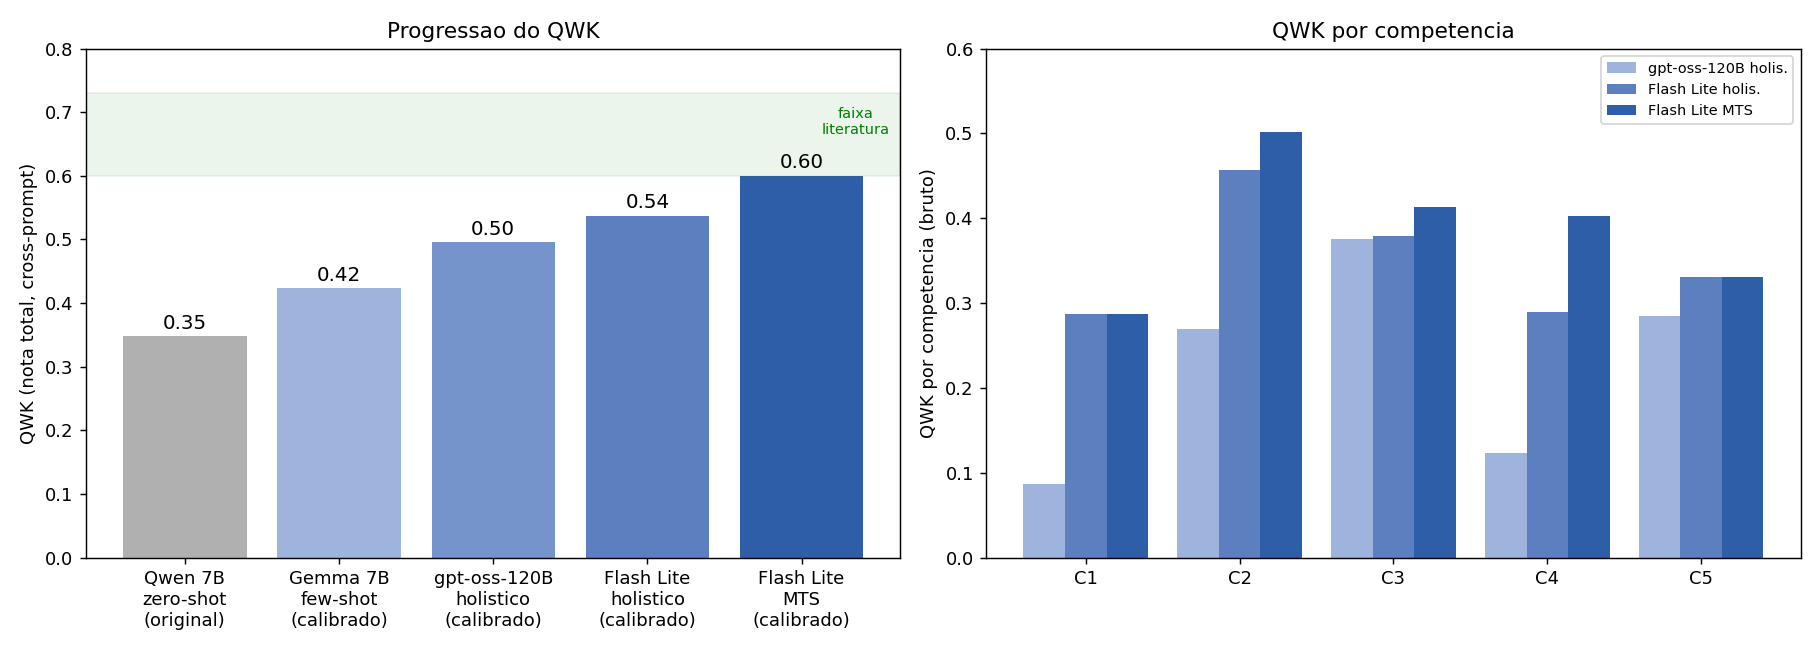
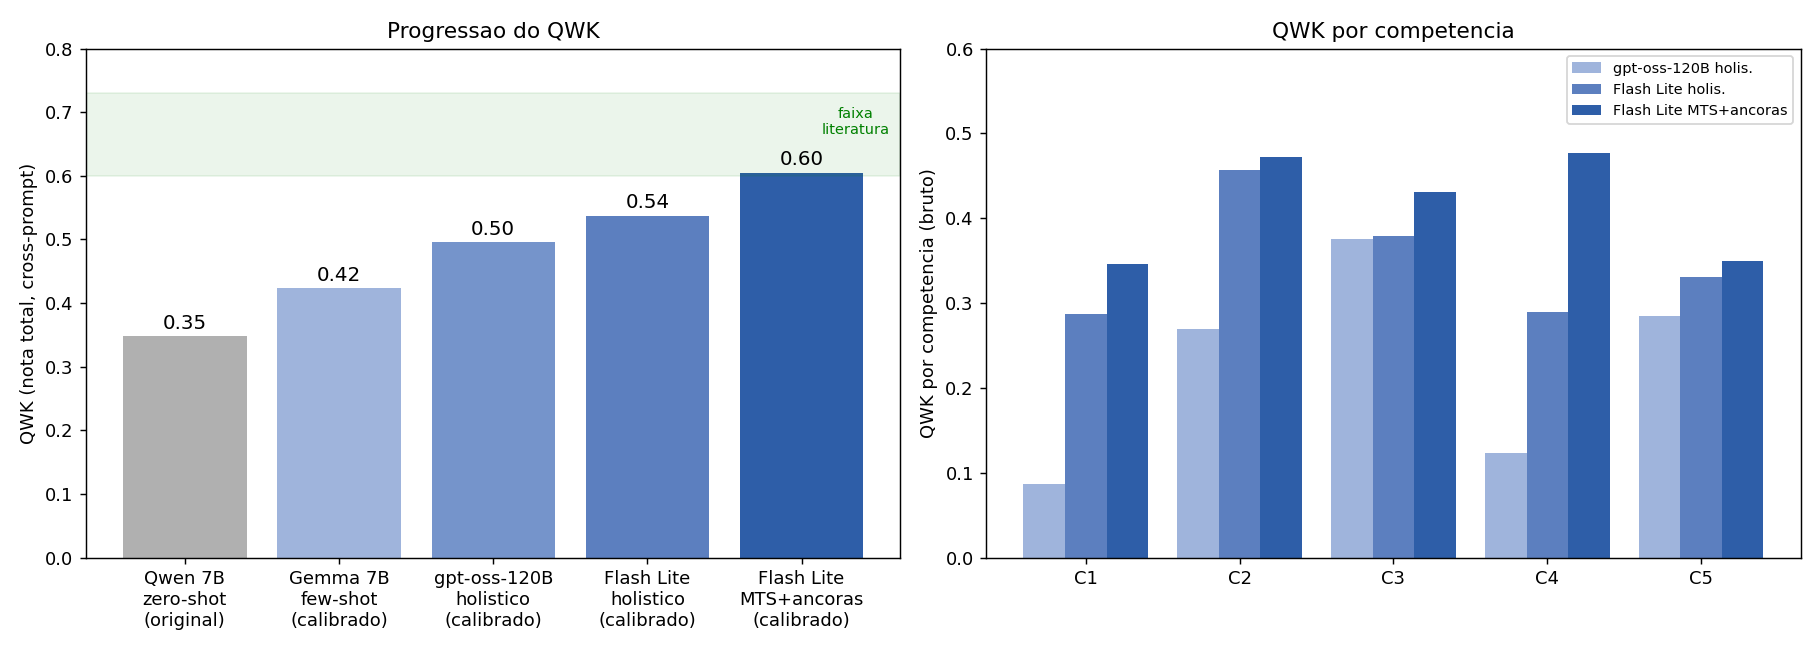
docs: log mts_fs2 result and refresh progression chart
mts_fs2 (few-shot anchors on C1-C4 plus a 5-element checklist on C5) is
the best config so far: raw QWK 0.59, calibrated total 0.605, overall
bias down to -36. C5 finally moves (QWK 0.33 to 0.35) and its score-0
bias nearly disappears. C5 stays the weakest trait; next lever is
Reflect-and-Revise on the C5 rubric.

plot_progresso.py now plots the mts_fs2 run as the final bar.

diff --git a/plot_progresso.py b/plot_progresso.py
@@ -23,7 +23,7 @@ from evaluate import evaluate_pair  # noqa: E402
 
 MAP = "results/v5_experimentos_v2/index_prompt_map.csv"
 FL_H = "results/api/flashlite_holistico.csv"
-FL_M = "results/api/flashlite_mts.csv"
+FL_M = "results/api/flashlite_mtsfs2.csv"  # melhor config: MTS + ancoras few-shot + checklist C5
 GO_H = "results/api/groq_holistico.csv"
 
 
@@ -57,7 +57,7 @@ def main():
         ("Gemma 7B\nfew-shot\n(calibrado)", qwk_total_calibrado("results/v5_experimentos_v2/ck2_gemma.csv")),
         ("gpt-oss-120B\nholistico\n(calibrado)", qwk_total_calibrado(GO_H)),
         ("Flash Lite\nholistico\n(calibrado)", qwk_total_calibrado(FL_H)),
-        ("Flash Lite\nMTS\n(calibrado)", qwk_total_calibrado(FL_M)),
+        ("Flash Lite\nMTS+ancoras\n(calibrado)", qwk_total_calibrado(FL_M)),
     ]
     comp_go, comp_h, comp_m = qwk_por_comp(GO_H), qwk_por_comp(FL_H), qwk_por_comp(FL_M)
 
@@ -86,7 +86,7 @@ def main():
     w = 0.27
     ax2.bar(x - w, [comp_go[f"C{i}"] for i in range(1, 6)], w, label="gpt-oss-120B holis.", color="#9FB4DC")
     ax2.bar(x, [comp_h[f"C{i}"] for i in range(1, 6)], w, label="Flash Lite holis.", color="#5C7FBF")
-    ax2.bar(x + w, [comp_m[f"C{i}"] for i in range(1, 6)], w, label="Flash Lite MTS", color="#2E5EA8")
+    ax2.bar(x + w, [comp_m[f"C{i}"] for i in range(1, 6)], w, label="Flash Lite MTS+ancoras", color="#2E5EA8")
     ax2.set_xticks(x)
     ax2.set_xticklabels([f"C{i}" for i in range(1, 6)])
     ax2.set_ylabel("QWK por competencia (bruto)")

diff --git a/docs/log_experimentos.md b/docs/log_experimentos.md
@@ -20,7 +20,8 @@ menor. "Calibrado" = deslocamento de viés aprendido out-of-fold (`calibrate.py`
 | 2026-09-03 | Gemini 3.8 Flash | holístico | 60 | 0,40 | 0,42 | 0,42 | modelo preview, RPD real ~13 por conta. Pior que o Flash Lite. Descartado |
 | 2026-09-04 | Gemini 3.5 Flash Lite | MTS2 (C1/C5 dedicado) | 257 | 0,54 | 0,60 | 0,60 | prompt estruturado para C1 e C5. Não melhorou. C1 piorou (0,29 para 0,21), C5 igual. Descartado |
 | 2026-09-04 | verificação de métricas | - | - | - | - | - | `verify_metrics.py`: QWK, Pearson, Spearman e MAE batem com scikit-learn/scipy e com o valor calculado pelo notebook v5 |
-| 2026-09-08 | Gemini 3.5 Flash Lite | MTS_FS (few-shot com âncoras) | 297 | 0,58 | 0,60 | 0,62 | uma redação âncora por faixa de nota por competência. Sobe a discriminação bruta (Pearson 0,60 para 0,62) e reduz o viés (-82 para -59), mas o total calibrado empata em 0,60. C1 0,29 para 0,34, C3 e C4 sobem, C5 travado em 0,33. Adotado como variante padrão do MTS |
+| 2026-09-08 | Gemini 3.5 Flash Lite | MTS_FS (few-shot com âncoras) | 297 | 0,58 | 0,60 | 0,62 | uma redação âncora por faixa de nota por competência. Sobe a discriminação bruta (Pearson 0,60 para 0,62) e reduz o viés (-82 para -59), mas o total calibrado empata em 0,60. C1 0,29 para 0,34, C3 e C4 sobem, C5 travado em 0,33 |
+| 2026-09-09 | Gemini 3.5 Flash Lite | MTS_FS2 (âncoras + checklist no C5) | 296 | 0,59 | 0,61 | 0,60 | âncoras em C1 a C4, mais checklist dos 5 elementos e aviso "parcial não é 0" só no C5. C5 sai de 0,33 para 0,35 e o viés do C5 quase some (média 90 para 113, humano 119). Melhor config até agora: QWK bruto 0,59, viés geral -36. Total calibrado 0,605. Adotado como padrão |
 
 ### QWK por competência (bruto), Flash Lite
 
@@ -30,10 +31,11 @@ menor. "Calibrado" = deslocamento de viés aprendido out-of-fold (`calibrate.py`
 | MTS | 0,29 | 0,50 | 0,41 | 0,40 | 0,33 |
 | MTS2 | 0,21 | 0,56 | 0,40 | 0,38 | 0,32 |
 | MTS_FS | 0,34 | 0,48 | 0,46 | 0,49 | 0,33 |
+| MTS_FS2 | 0,35 | 0,47 | 0,43 | 0,48 | 0,35 |
 
-O few-shot com âncoras (MTS_FS) finalmente move C1 (0,29 para 0,34) e sobe C3 e C4.
-C5 (proposta de intervenção) continua travado em 0,33 em todos os modos: o modelo dá nota 0
-quando a proposta é parcial. Esse é o gargalo isolado atual.
+O few-shot com âncoras (MTS_FS) move C1 (0,29 para 0,34) e sobe C3 e C4. O MTS_FS2 adiciona
+checklist no C5 e finalmente tira o C5 do lugar (0,33 para 0,35), cortando o viés de nota 0.
+C5 segue sendo o pior trait. Próximo alvo: Reflect-and-Revise da rubrica de C5.
 
 ## Cotas diárias das APIs gratuitas
 
@@ -63,6 +65,17 @@ Temos 5 contas Groq. gpt-oss-120b holístico nas 300: cabe em 1 dia com as 5 con
 
 - Cerebras: sem crédito, trial de 5 dólares não foi provisionado para a organização.
 - Maritaca (Sabiá): pedido de créditos acadêmicos feito no início de 2026, sem retorno.
+
+## Gasto diário registrado
+
+| Data | O que rodou | Chamadas por conta Gemini | Sobra estimada |
+|---|---|---|---|
+| 2026-09-08 | mts_fs 300 (60 x 5) + 2 smokes | ~350 (conta 1), ~300 (contas 2-5) | conta 1 ~150, contas 2-5 ~200 |
+| 2026-09-09 | mts_fs2 300 (60 x 5), rodado pela colega na máquina dela | ~300 por conta | ~200 por conta |
+
+Regra: antes de disparar um run grande, somar o que já foi gasto no dia. mts_fs / mts_fs2
+de 300 redações custam 300 chamadas por conta (60 redações x 5 competências). Cabe 1 run
+por dia por lote de 5 contas. RPD zera ~04:00 BRT.
 
 ## Consumo por tipo de teste
 
